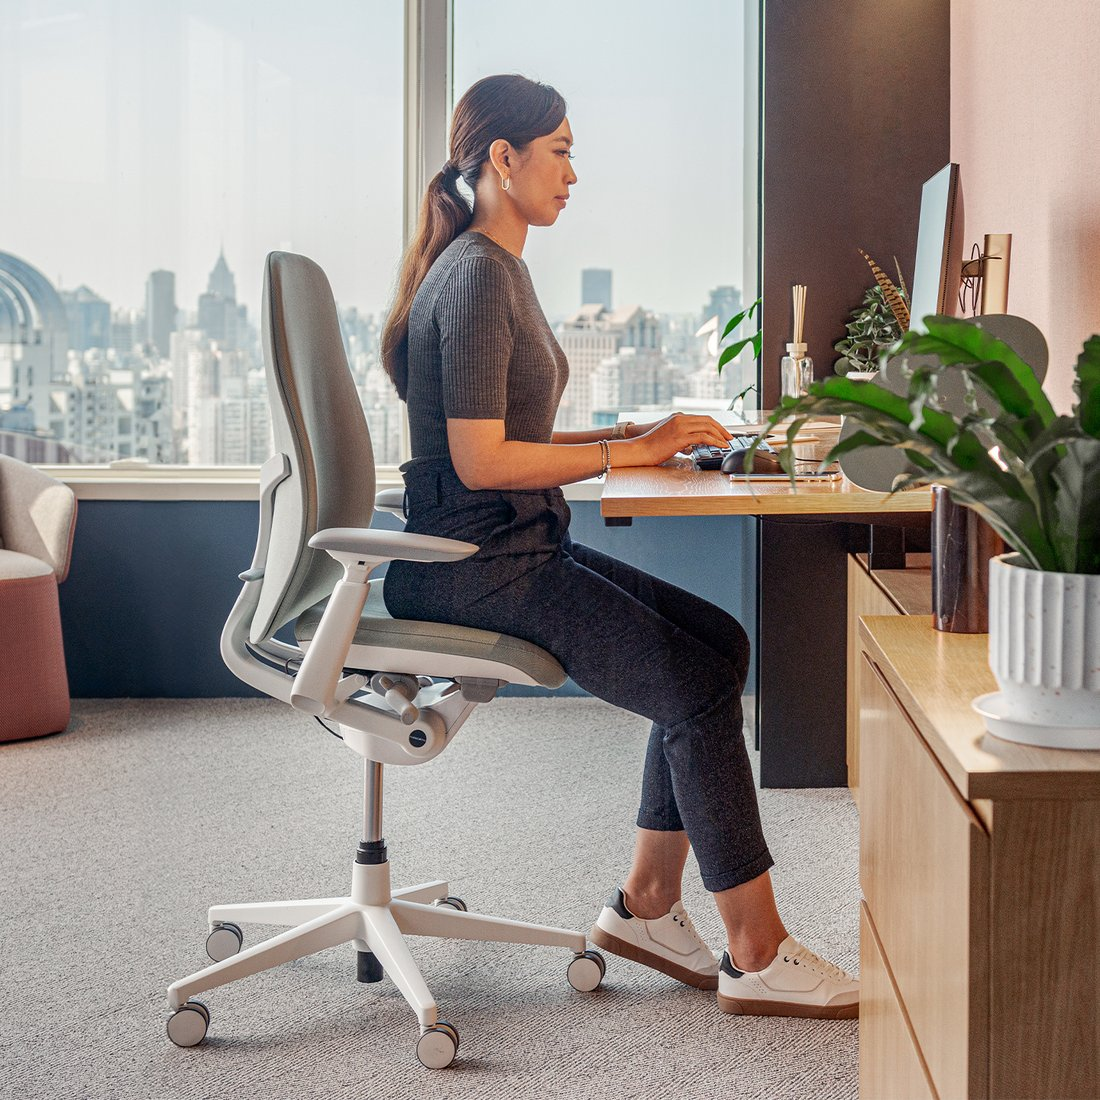
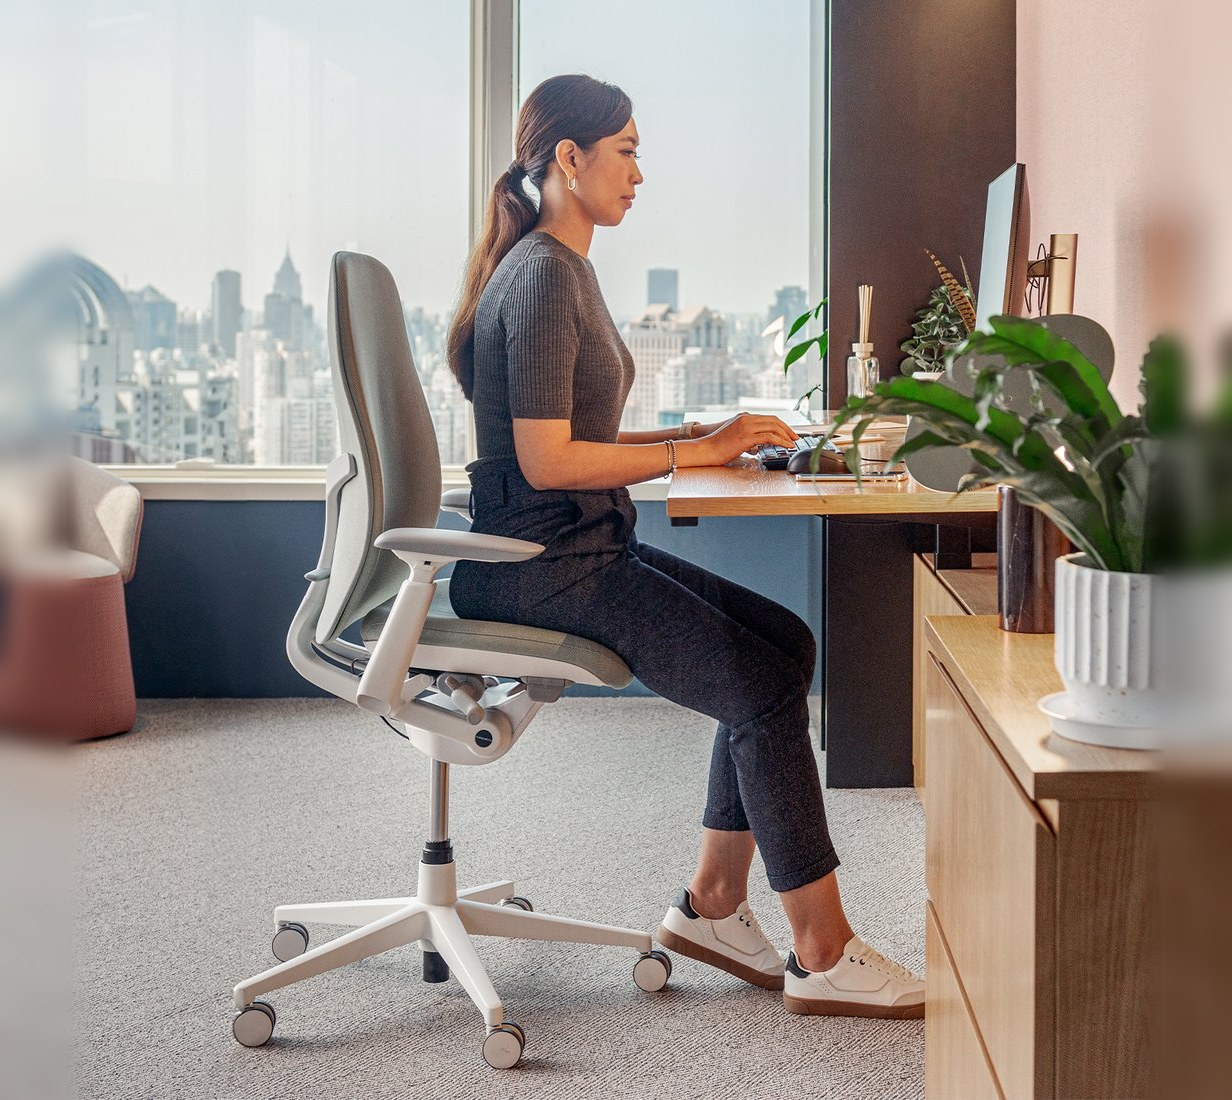
iPad: remove blur-fit; compact footer so photo fills edge to edge; reframe Soji/Zody/Cardigan; Safari-accurate iPad preview frame
Claude-Session: https://claude.ai/code/session_015ArFGLRheboPHWaxxjZRYL

diff --git a/index.html b/index.html
@@ -25,7 +25,6 @@
   .card.back{transform:scale(.94) translateY(10px);opacity:.55;pointer-events:none;transition:transform .25s,opacity .25s}
   .card.dragging{cursor:grabbing;transition:none}
   .photo{flex:1;min-height:0;position:relative;overflow:hidden;background:#222}
-  .bgfill{display:none}
   .photo img{width:100%;height:100%;object-fit:cover;display:block;pointer-events:none;-webkit-user-drag:none}
   .meta{flex:none;text-align:center;padding:12px 14px 4px;line-height:1.3}
   .meta h2{margin:0 0 3px;font-weight:400;font-size:clamp(21px,6vw,27px)}
@@ -130,21 +129,17 @@
 
   /* ---- tablet / desktop: keep the phone-shaped card, centred, so crops stay as designed ---- */
   @media (min-width:700px){
-    /* iPad / tablet: full-bleed, edge to edge. If the photo area is wider than the photo, show the WHOLE
-       photo (never cut the product) and fill the sides with a soft blurred extension of the same picture */
-    .photo.fit .bgfill{display:block;position:absolute;inset:-40px;background-size:cover;background-position:center;
-      filter:blur(30px) brightness(.88);transform:scale(1.08)}
-    .photo.fit img{position:relative;object-fit:contain;object-position:50% 50% !important}
-    header{padding:18px 0 14px}
-    .logo{height:26px}
-    .meta{padding:16px 24px 8px}
-    .meta h2{font-size:34px}
-    .meta p{font-size:21px}
+    /* iPad / tablet: full-bleed, edge to edge; compact header/footer so the photo area stays as tall as possible */
+    header{padding:10px 0 8px}
+    .logo{height:22px}
+    .meta{padding:8px 24px 2px}
+    .meta h2{font-size:30px;margin-bottom:1px}
+    .meta p{font-size:18px}
     .stamp{font-size:44px;top:34px;padding:6px 22px}
     .stamp.yeah{left:34px}.stamp.nah{right:34px}
-    .actions{padding:14px 40px 26px;gap:16px}
-    .btn{font-size:22px;padding:12px 34px;min-height:56px}
-    .count{font-size:21px}
+    .actions{padding:8px 36px 16px;gap:16px}
+    .btn{font-size:20px;padding:10px 32px;min-height:50px}
+    .count{font-size:19px}
     .dscroll{padding:10px 36px 14px}.dfoot{padding:10px 36px 24px;flex-direction:row}
     .dfoot .btn{flex:1}
     .dfoot .toast{display:none}
@@ -207,20 +202,12 @@
     el.textContent = base;
     if (tag){ el.appendChild(document.createTextNode(' | ')); const t = document.createElement('span'); t.className = 'tag ' + (/made in india/i.test(tag) ? 'in' : 'qs'); t.textContent = tag; el.appendChild(t); }
   }
-  function fitCheck(c){
-    const ph = c.querySelector('.photo'), im = c.querySelector('img');
-    if (!im.naturalWidth || !ph.clientHeight || window.innerWidth < 700){ ph.classList.remove('fit'); return; }
-    ph.classList.toggle('fit', ph.clientWidth / ph.clientHeight > (im.naturalWidth / im.naturalHeight) * 1.02);
-  }
-  window.addEventListener('resize', () => document.querySelectorAll('.card').forEach(fitCheck));
   function cardEl(p, back){
     const c = document.createElement('div');
     c.className = 'card' + (back ? ' back' : '');
-    c.innerHTML = '<div class="photo"><i class="bgfill"></i><img alt="" draggable="false"><span class="stamp yeah">YEAH</span><span class="stamp nah">NAH</span></div>' +
+    c.innerHTML = '<div class="photo"><img alt="" draggable="false"><span class="stamp yeah">YEAH</span><span class="stamp nah">NAH</span></div>' +
       '<div class="meta"><h2></h2><p class="b"></p><p class="d"></p><p class="n"></p></div>';
     const im0 = c.querySelector('img'), ph0 = c.querySelector('.photo');
-    ph0.querySelector('.bgfill').style.backgroundImage = 'url("' + p.image + '")';
-    im0.addEventListener('load', () => fitCheck(c));
     im0.src = p.image;
     c.querySelector('h2').textContent = p.name;
     const pillKind = isIndia(p) ? ['', 'MADE IN INDIA'] : (/quickship/i.test(p.brand || '') ? ['stock', 'STOCKED IN INDIA'] : null);

diff --git a/preview.html b/preview.html
@@ -30,6 +30,9 @@
   .ipbar .url{flex:1;max-width:520px;margin:0 auto;height:34px;border-radius:10px;background:#2c2c2e;display:flex;align-items:center;justify-content:center;font-size:14px;color:#e5e5e7}
   .ipbar .ub span.g{width:22px;text-align:center}
   .iphome{position:absolute;left:50%;bottom:7px;transform:translateX(-50%);width:160px;height:5px;border-radius:3px;background:rgba(255,255,255,.55);z-index:4}
+  .ipbar .tabstrip{display:flex;gap:6px;height:52px;align-items:center;padding:0 14px;font-size:13px;color:#cfcfd2}
+  .ipbar .tabstrip span{flex:1;text-align:center;background:#232325;border-radius:10px;padding:9px 6px}
+  .ipbar .tabstrip span.on{background:#3a3a3d;color:#fff}
   .ipbot{position:absolute;left:0;right:0;bottom:0;height:20px;background:#141414;z-index:3}
   #row{display:flex;gap:56px;align-items:flex-start;width:max-content}
   .dev .label{font-size:13px;color:#bbb;margin:0 0 4px;text-align:center}
@@ -116,13 +119,14 @@ addEventListener('message', async function(e){
   ];
   const row2 = document.getElementById('row2');
   pads.forEach(d => {
-    const top = 74, bottom = 20, vh = d.H - top - bottom;
+    const top = 126, bottom = 0, vh = d.H - top - bottom; /* matches a real iPad Safari: status 24 + toolbar 50 + tab strip 52 */
     const el = document.createElement('div'); el.className = 'dev';
     el.innerHTML = '<p class="label">'+d.label+'<small>'+d.sub+'</small></p>' +
       '<div class="pad" style="border-radius:'+(d.r+d.bezel)+'px;padding:'+d.bezel+'px"><div class="screen" style="width:'+d.W+'px;height:'+d.H+'px;border-radius:'+d.r+'px">' +
       '<div class="ipbar"><div class="sb"><span>9:41 &nbsp; Wed 18 Nov</span><span>\u25b2 &nbsp;100% \u25ae</span></div>' +
-      '<div class="ub"><span class="g">\u2039</span><span class="g">\u203a</span><div class="url">\ud83d\udd12&nbsp; haworth.claude.ai</div><span class="g">\u2b06</span><span class="g">+</span></div></div>' +
-      '<div class="ipbot"></div><div class="iphome"></div>' +
+      '<div class="ub"><span class="g">\u2039</span><span class="g">\u203a</span><div class="url">\ud83d\udd12&nbsp; finder.vazha.space</div><span class="g">\u2b06</span><span class="g">+</span></div>' +
+      '<div class="tabstrip"><span>Google</span><span>OneTM</span><span>BuzziSp\u2026</span><span class="on">Haworth\u2026</span></div></div>' +
+      '<div class="iphome"></div>' +
       '<iframe src="index.html" title="'+d.label+'" style="top:'+top+'px;height:'+vh+'px"></iframe></div></div>';
     row2.appendChild(el);
   });

diff --git a/products.js b/products.js
@@ -7,7 +7,7 @@ window.PRODUCTS = [
   { name: "BuzziVault",     brand: "BuzziSpace", designer: "Alain Giles",        image: "img/buzzivault.jpg", focus: "50% 14%" },
   { name: "BuzziNest Office", brand: "HushOffice", designer: "",                  image: "img/buzzinest-office.jpg" },
   { name: "BuzziPleat",     brand: "BuzziSpace | Made in India", designer: "13&9 Design",        image: "img/buzzipleat.jpg" },
-  { name: "Cardigan Lounge", brand: "Haworth",   designer: "Patricia Urquiola",  image: "img/cardigan-lounge.jpg", focus: "50% 75%" },
+  { name: "Cardigan Lounge", brand: "Haworth",   designer: "Patricia Urquiola",  image: "img/cardigan-lounge.jpg", focus: "50% 85%" },
   { name: "Mush",           brand: "Cappellini", designer: "Giulio Cappellini",  image: "img/cappellini-mush.jpg" },
   { name: "Orla",           brand: "Cappellini", designer: "Jasper Morrison",    image: "img/orla.jpg", focus: "76% 50%" },
   { name: "Your Place Echo", brand: "Haworth",   designer: "",                   image: "img/yp-echo.jpg" },
@@ -29,7 +29,7 @@ window.PRODUCTS = [
   { name: "Poppy Conference", brand: "Haworth | Made in India", designer: "Patricia Urquiola", image: "img/poppy-conference.jpg", light: true },
   { name: "HushFree M", brand: "HushOffice | India Quickship", designer: "", image: "img/hushfree-m.jpg", focus: "90% 50%", light: true },
   { name: "Fern Digital Knit", brand: "Haworth | Made in India", designer: "", image: "img/fern-digital-knit.jpg", focus: "49% 50%", light: true },
-  { name: "Zody LX", brand: "Haworth | Made in India", designer: "ITO Design", image: "img/zody-lx.jpg", focus: "33% 50%", light: true },
+  { name: "Zody LX", brand: "Haworth | Made in India", designer: "ITO Design", image: "img/zody-lx.jpg", focus: "28% 50%", light: true },
   { name: "Aloha Pro", brand: "Haworth | Made in India", designer: "", note: "Bio Mass Foam", image: "img/aloha-pro.jpg" },
-  { name: "Soji", brand: "Haworth | Made in India", designer: "", image: "img/soji.jpg", light: true }
+  { name: "Soji", brand: "Haworth | Made in India", designer: "", image: "img/soji.jpg", focus: "50% 90%", light: true }
 ];
